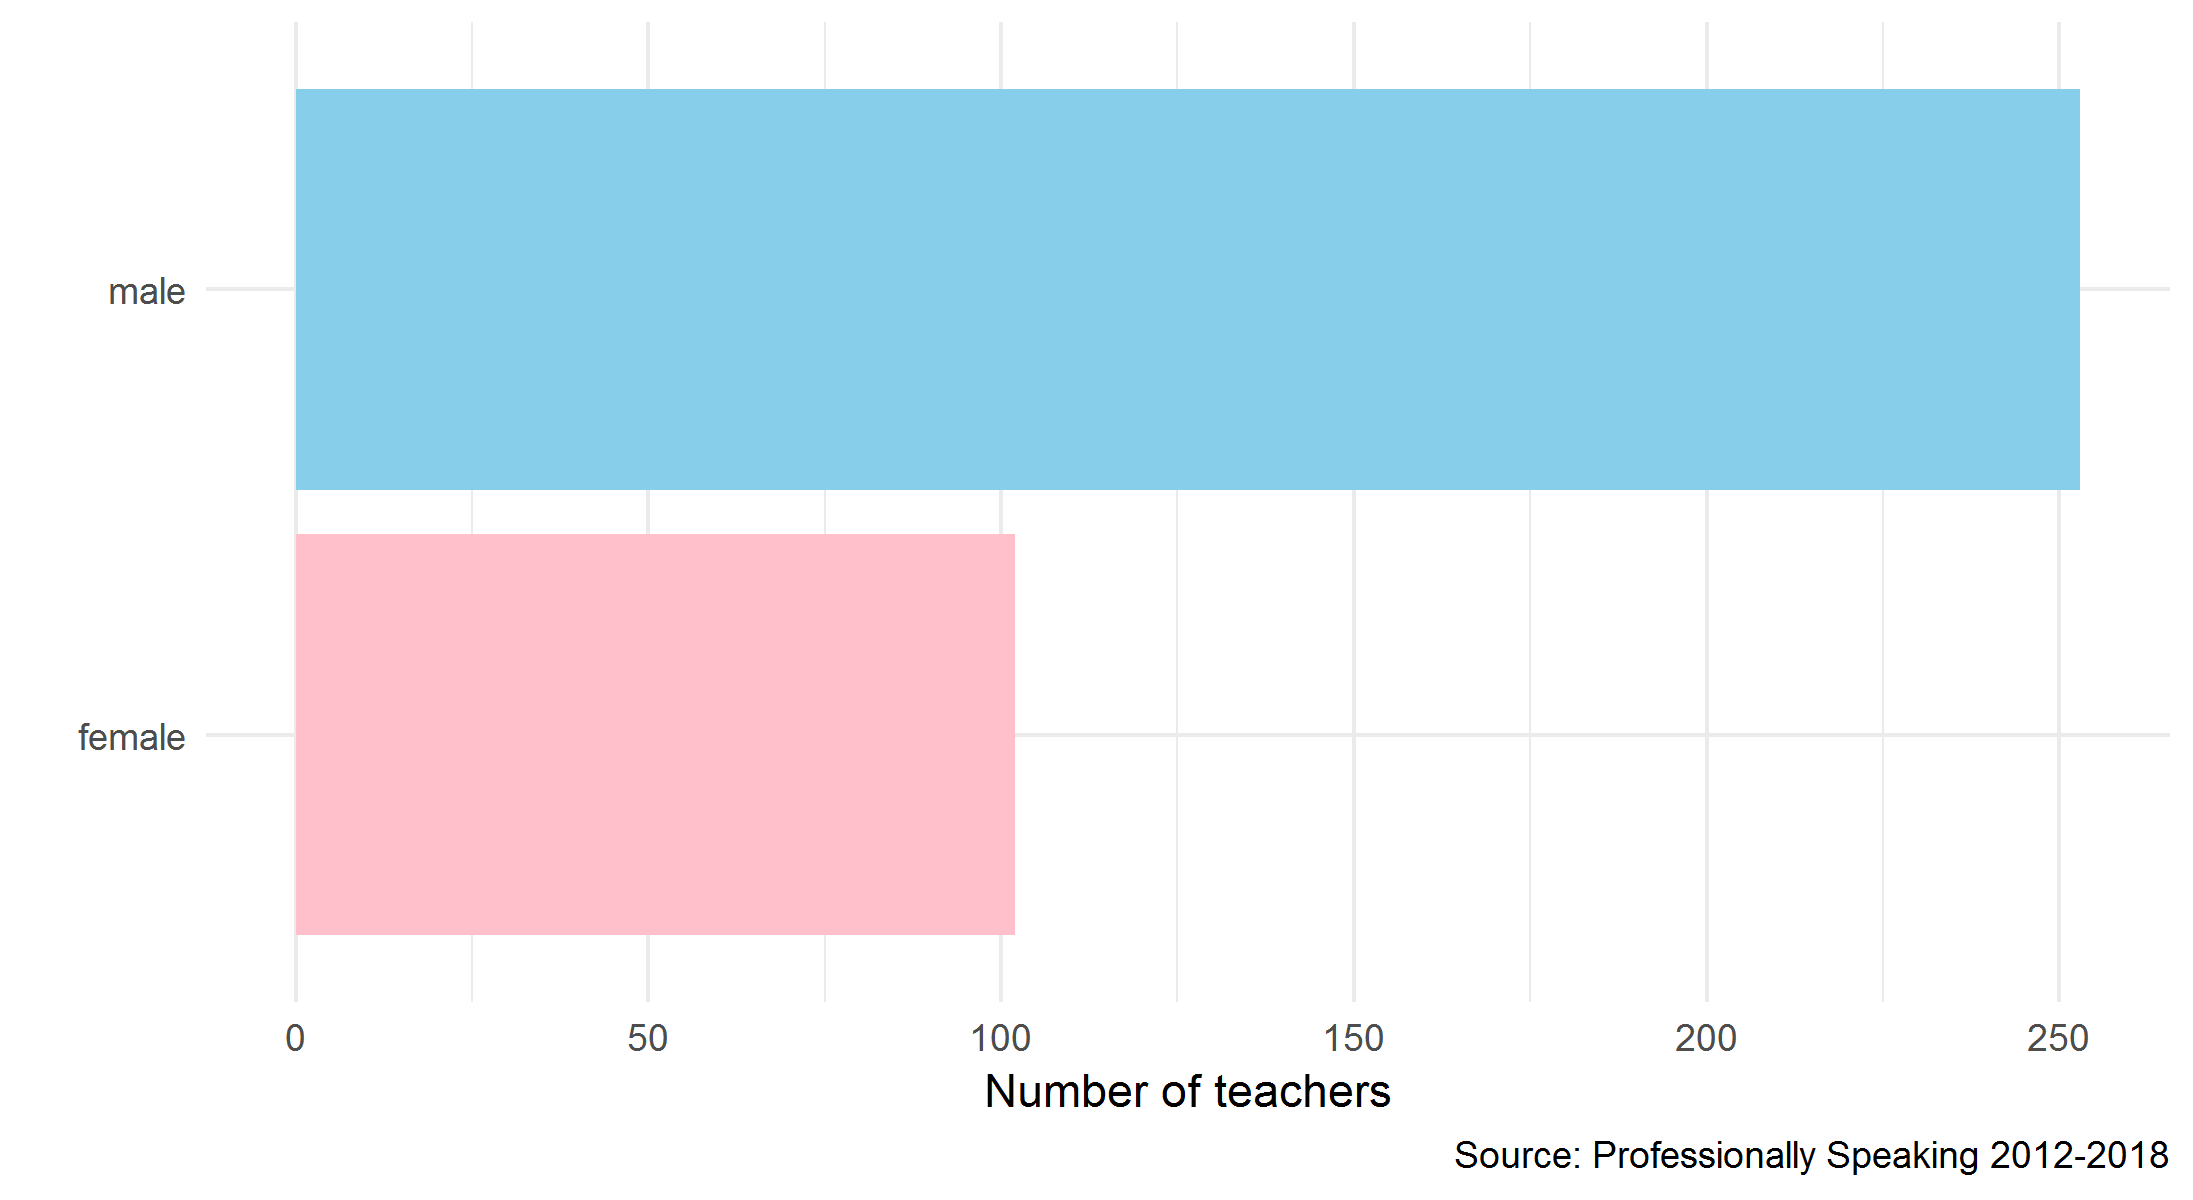
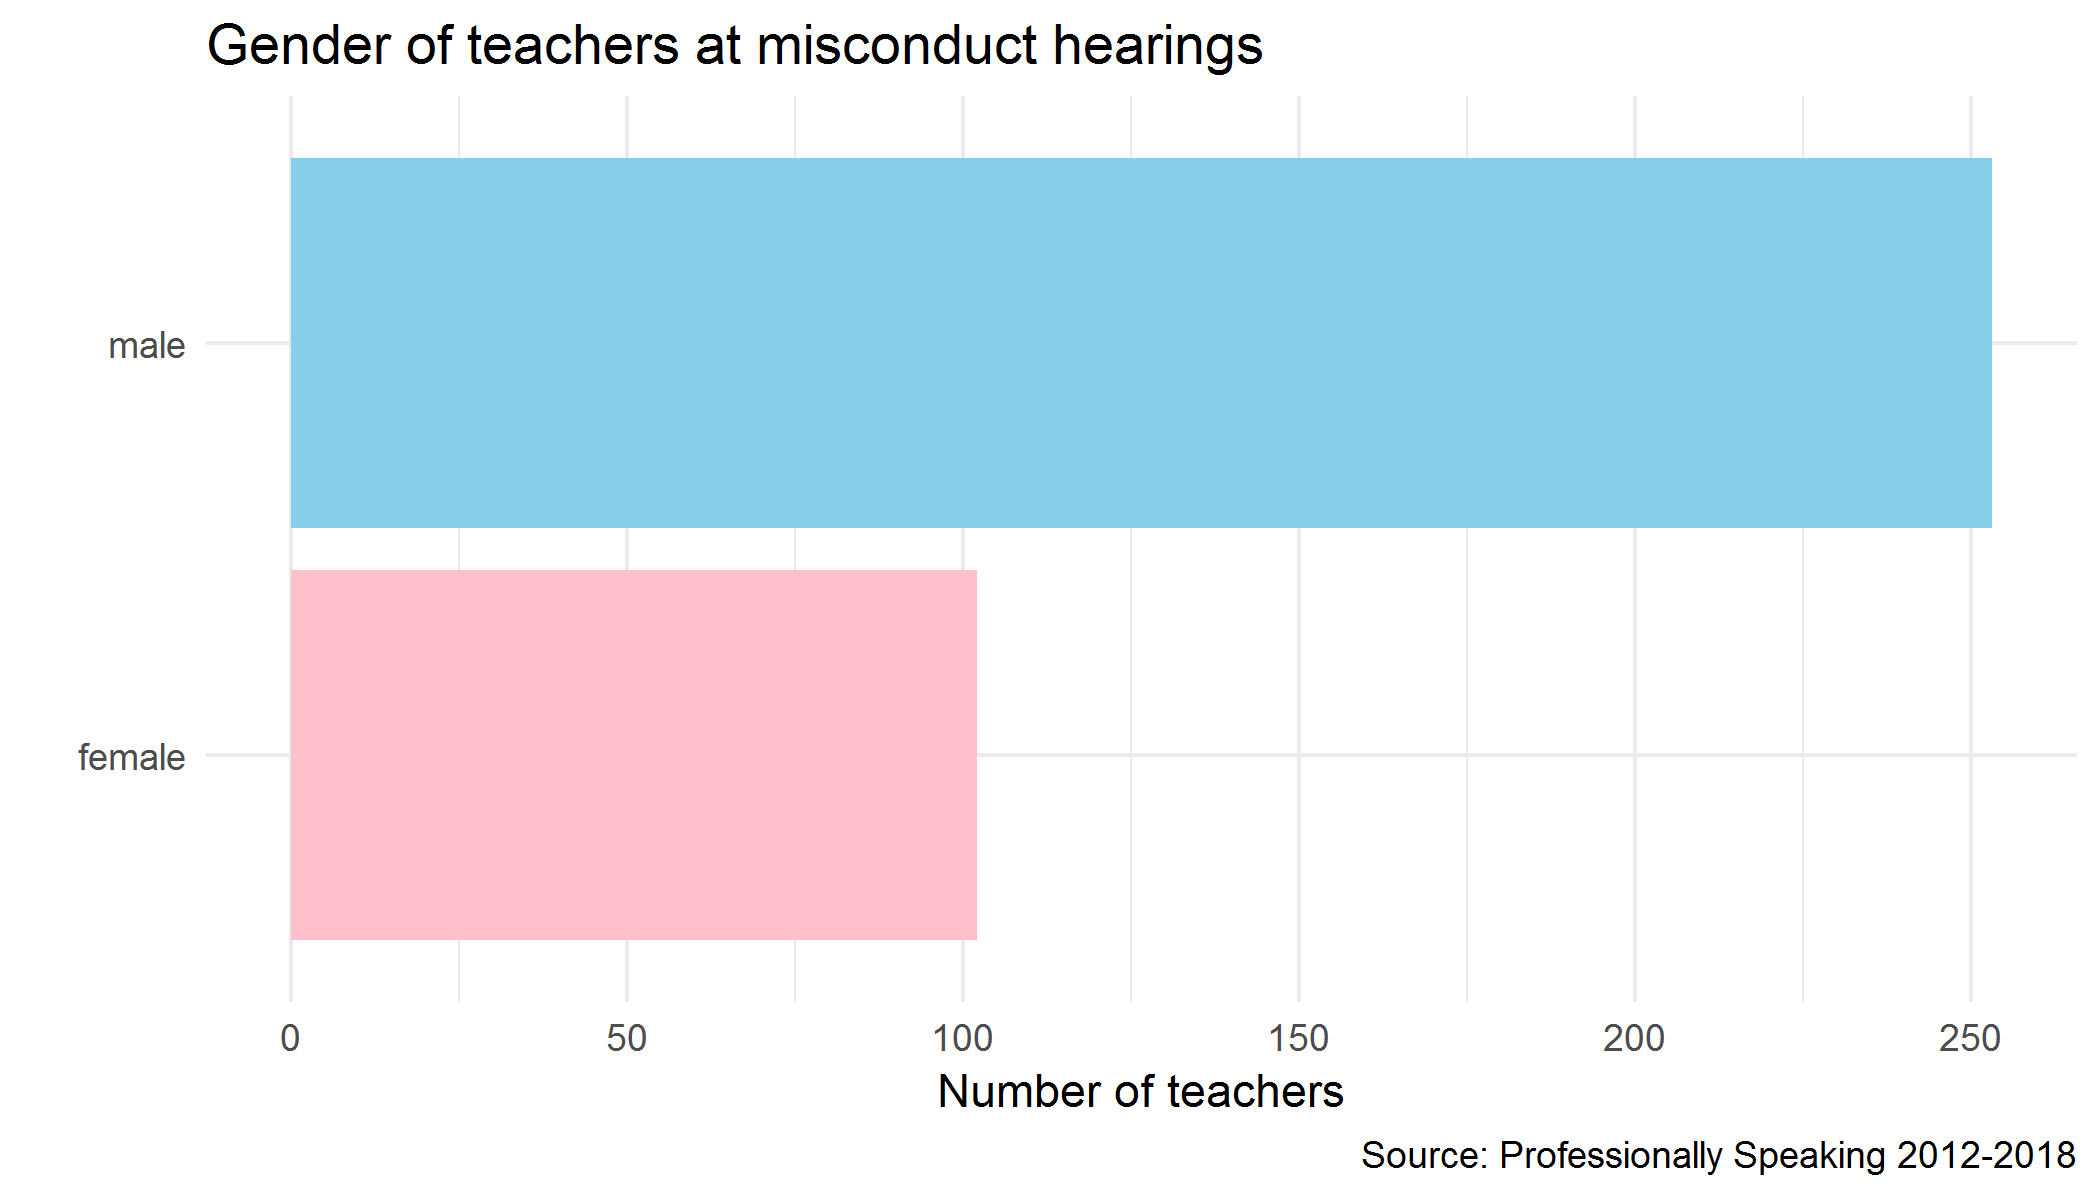
teacher obs 2

diff --git a/content/post/2018-07-23-a-look-at-teacher-misconduct-in-toronto.html b/content/post/2018-07-23-a-look-at-teacher-misconduct-in-toronto.html
@@ -27,14 +27,14 @@ tags:
 <p>While exploring the internet for the results of his hearing, I found that the Toronto District School Board has a website that lists all offenses from presumably all teachers, going as far back as 2012 or so. It piqued my interest to explore this dataset a bit more fully than to simply look up a past classmate’s fate.</p>
 <div id="observations" class="section level1">
 <h1>Observations</h1>
-<div id="male-teachers-represent-more-than-2x-the-number-of-female-teachers" class="section level2">
-<h2>1. Male teachers represent more than 2x the number of female teachers</h2>
 <div class="figure">
 <img src="/img/teachers/gender.plot.png" />
 
 </div>
+<ol style="list-style-type: decimal">
+<li>First thing that jumped out at me was male teachers represent more than 2x the number of female teachers. I don’t have a gender split of the total number of teachers available, but going by my own anecdotal experience, female teachers likely outnumber male teachers. So the fact that male teachers dominate misconduct hearings is even more significant.</li>
+</ol>
 <p>[Put reddit front page worthy visualization here]</p>
-</div>
 </div>
 <div id="appendix" class="section level1">
 <h1>Appendix</h1>
